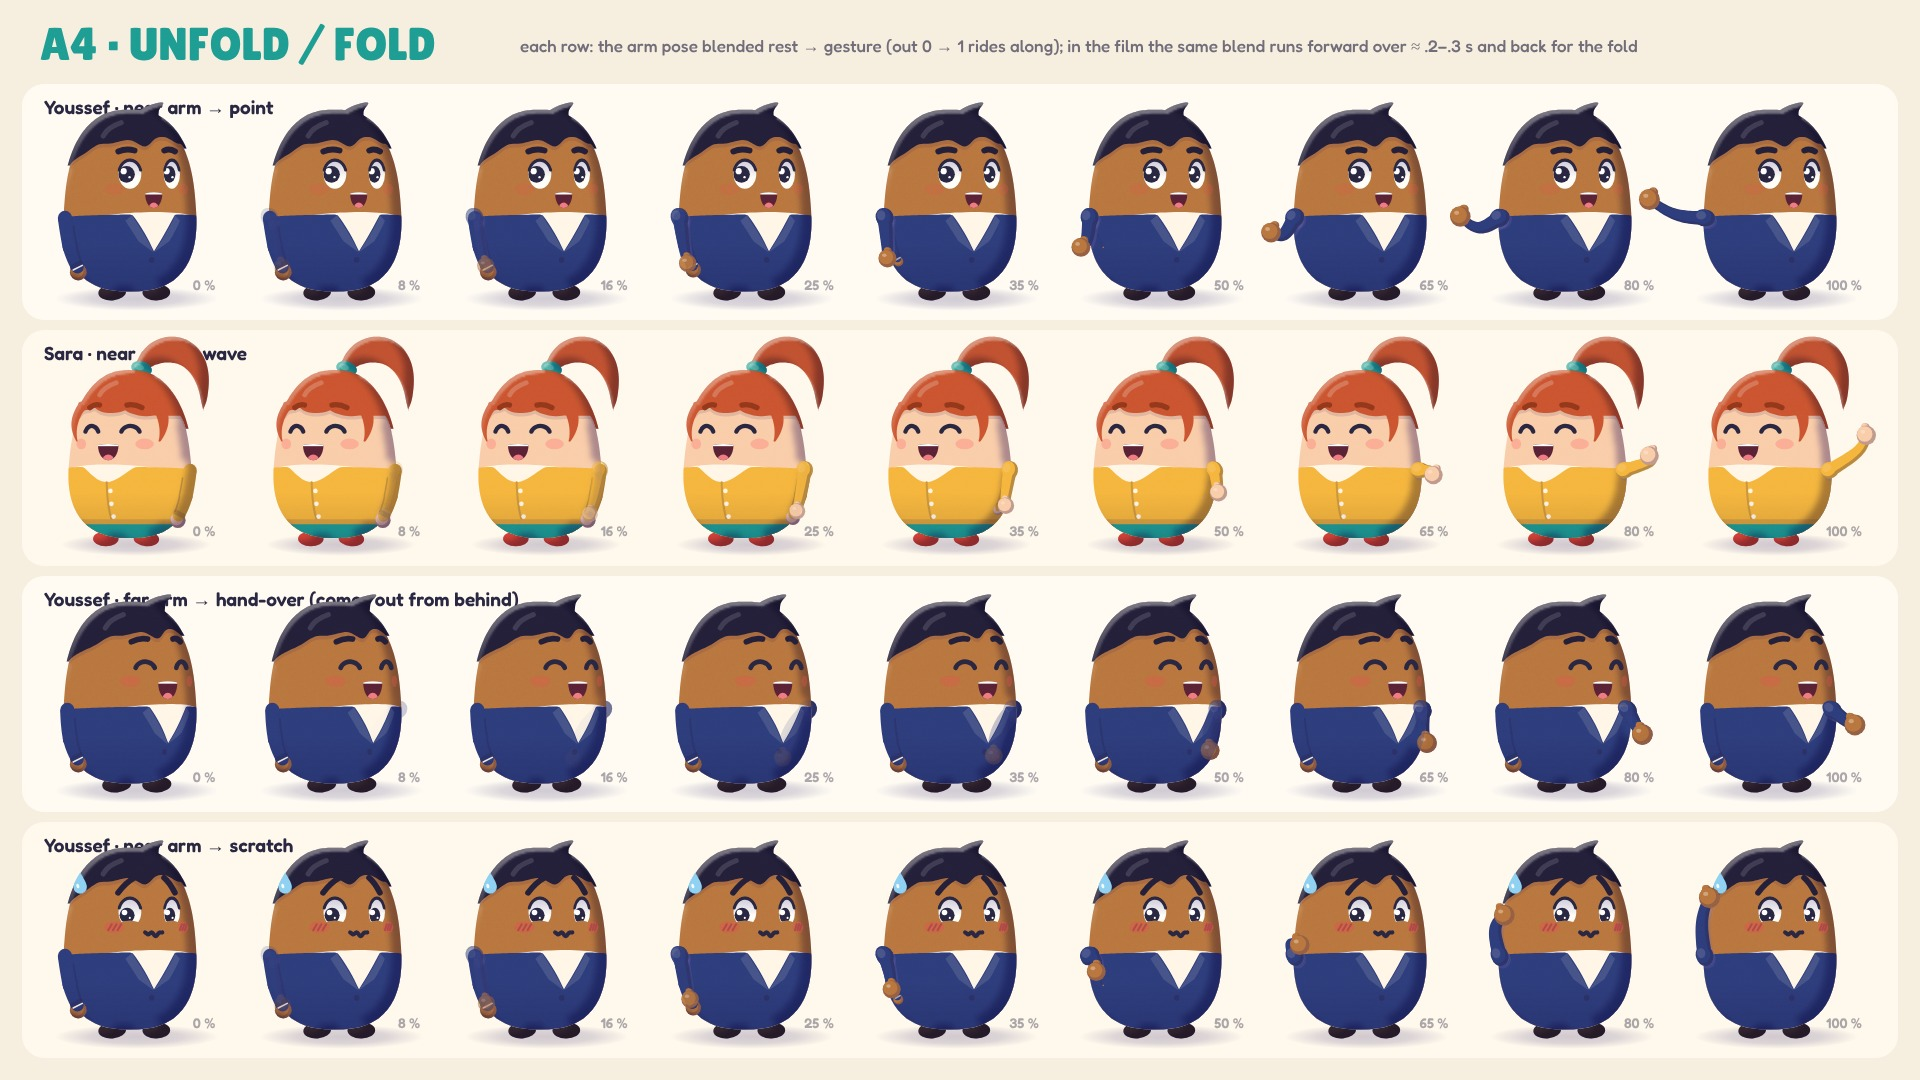
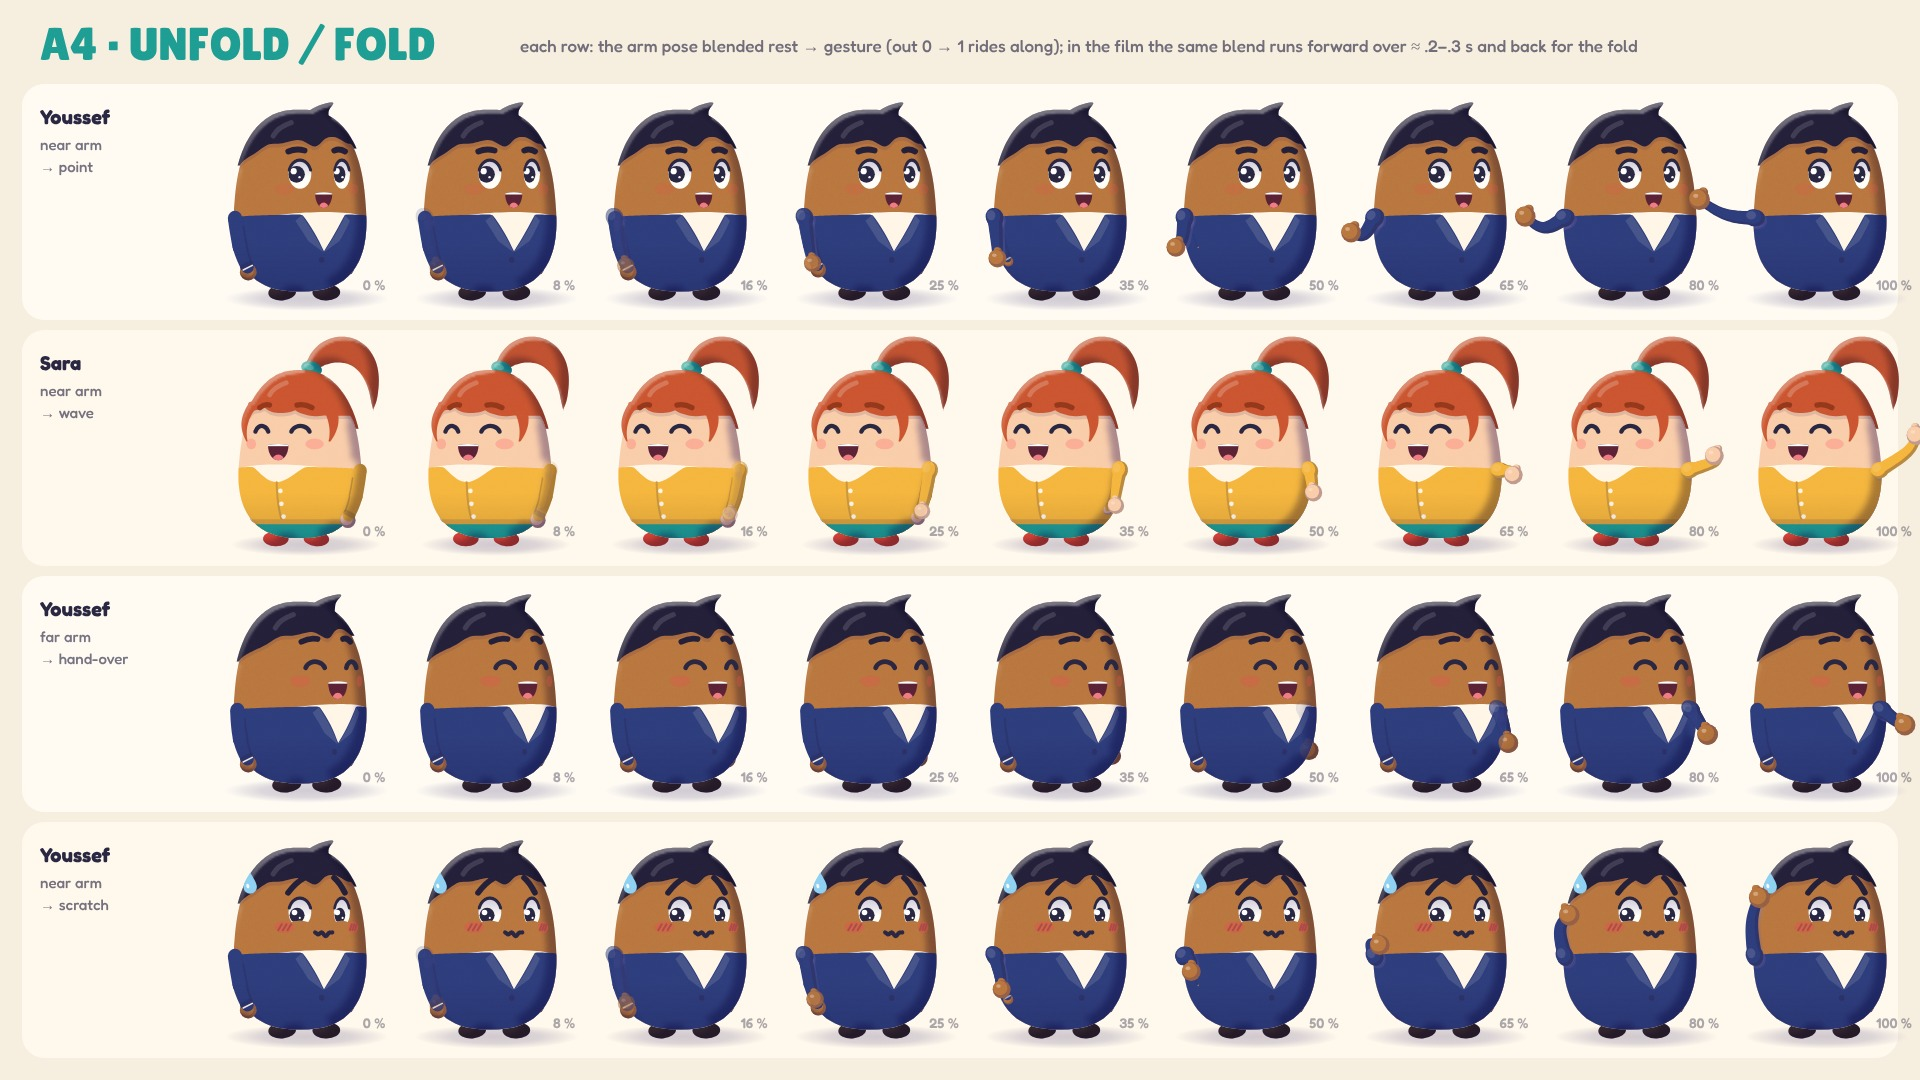
WIP: arms test v4 in progress
Claude-Session: https://claude.ai/code/session_01Ey97nqMLT4oVRE1erYCZ22

diff --git a/production/arms-test-v4/sheet.js b/production/arms-test-v4/sheet.js
@@ -30,25 +30,29 @@ const POSES = [
 
 export function sheetPoses(c) {
   c.fillStyle = '#F6EEDF'; c.fillRect(0, 0, SW, SH);
-  c.font = '400 50px "Lilita One"'; c.fillStyle = P.navy; c.textAlign = 'left'; c.fillText('ARMS · A3 vs A4', 40, 64);
-  label(c, 'A3 (episodes now): shoulder cap + one tapered sleeve curve + round hand, always full length  ·  A4: at rest the sleeve hugs the side as a bulge in the body silhouette (small hand at the hip, far arm hidden); gestures unfold the A3 arm (+10 % at the shoulder)', 470, 50, 15.5, rgba(P.ink, .7), 'left', 500);
-  label(c, 'same poses, same scale, 3/4 two-shot (Youssef turn .3, Sara −.3). Dashed line in the A4 row: where the new medium two-shot cuts the frame (≈ .2 H above the feet)', 470, 72, 15.5, rgba(P.ink, .5), 'left', 500);
-  const k = .74, cw = 306, x0 = 30, rows = [['A3', 96, P.navy], ['A4', 588, P.teal]];
-  for (const [m, ry, col] of rows) {
+  c.font = '400 46px "Lilita One"'; c.fillStyle = P.navy; c.textAlign = 'left'; c.fillText('ARMS · A3 vs A4', 36, 56);
+  label(c, 'A3 (episodes now): shoulder cap + one tapered sleeve curve + round hand, always full length.   A4: at rest the sleeve hugs the side as a bulge inside the body', 420, 34, 15.5, rgba(P.ink, .72), 'left', 500);
+  label(c, 'silhouette (one form pass, small hand at the hip, far arm hidden); gestures unfold the A3 arm out of it (+10 % at the shoulder).  Same pose objects, same scale, 3/4 view.', 420, 54, 15.5, rgba(P.ink, .72), 'left', 500);
+  label(c, 'Dashed red line in the A4 rows: where the new medium two-shot cuts the frame (≈ .2 H above the feet): below it is off screen in the dialogue shots.', 420, 74, 15.5, rgba(P.ink, .5), 'left', 500);
+  const k = .62, cw = 300, x0 = 120 + cw / 2, rh = 236;
+  const rows = [['youssef', 'A3', 1], ['youssef', 'A4', 1], ['mia', 'A3', 2], ['mia', 'A4', 2]];
+  rows.forEach(([id, m, col], ri) => {
+    const ry = 110 + ri * rh + (ri >= 2 ? 6 : 0);
     setArms(m);
-    c.fillStyle = m === 'A4' ? '#FFF8EC' : '#FFFBF3'; rr(c, 22, ry, SW - 44, 476, 26); c.fill();
-    c.font = '400 46px "Lilita One"'; c.fillStyle = col; c.textAlign = 'left'; c.fillText(m, 42, ry + 52);
+    c.fillStyle = m === 'A4' ? '#FFF6E6' : '#FFFBF3'; rr(c, 16, ry, SW - 32, rh - 8, 22); c.fill();
+    c.font = '400 40px "Lilita One"'; c.fillStyle = m === 'A4' ? P.teal : rgba(P.navy, .8); c.textAlign = 'left'; c.fillText(m, 32, ry + 50);
+    label(c, id === 'mia' ? 'Sara' : 'Youssef', 32, ry + 76, 17, rgba(P.ink, .55), 'left', 600);
     POSES.forEach(([name, yo, so], i) => {
-      const cx = x0 + 140 + i * cw, g = ry + 420;
-      if (i) { c.strokeStyle = rgba(P.ink, .07); c.lineWidth = 2; c.beginPath(); c.moveTo(cx - cw / 2 + 4, ry + 70); c.lineTo(cx - cw / 2 + 4, ry + 440); c.stroke(); }
-      if (m === 'A4') { const yc = g - .2 * 300 * .9 * k; c.setLineDash([7, 7]); c.strokeStyle = rgba(P.red, .45); c.lineWidth = 2; c.beginPath(); c.moveTo(cx - cw / 2 + 14, yc); c.lineTo(cx + cw / 2 - 10, yc); c.stroke(); c.setLineDash([]); }
-      actor(c, 'youssef', cx - 62, g, k * .9, { ...Y0, ...yo });
-      actor(c, 'mia', cx + 82, g, k * .9, { ...S0, ...so });
-      label(c, name, cx + 10, g + 42, 19, rgba(P.ink, .62));
+      const cx = x0 + i * cw, g = ry + rh - 34;
+      if (i) { c.strokeStyle = rgba(P.ink, .07); c.lineWidth = 2; c.beginPath(); c.moveTo(cx - cw / 2, ry + 14); c.lineTo(cx - cw / 2, ry + rh - 22); c.stroke(); }
+      const hh = CAST[id].H * k;
+      if (m === 'A4') { const yc = g - .2 * hh; c.setLineDash([7, 7]); c.strokeStyle = rgba(P.red, .5); c.lineWidth = 2; c.beginPath(); c.moveTo(cx - cw / 2 + 12, yc); c.lineTo(cx + cw / 2 - 12, yc); c.stroke(); c.setLineDash([]); }
+      actor(c, id, cx + (id === 'mia' ? -14 : 14), g, k, { ...(id === 'mia' ? S0 : Y0), ...(id === 'mia' ? so : yo) });
+      if (ri === 0) label(c, name, cx, ry - 6, 19, rgba(P.ink, .7));
     });
-  }
+  });
   setArms('A4');
-  label(c, 'arms test v4 · bean.js ARMS = A4 · the same pose objects feed both rows (A3 ignores the new `out` field)', SW / 2, SH - 12, 14, rgba(P.ink, .45));
+  label(c, 'arms test v4 · bean.js ARMS = A4 · Youssef turn .3 (armL near), Sara turn −.3 (armR near); point / wave / scratch use the near arm, the sip the far arm brought in front (as in the episode)', SW / 2, SH - 8, 14, rgba(P.ink, .45));
 }
 
 // the unfold, frame by frame: the arm fields blended from rest to the gesture by u (the smoothed tracks in act.js move all of them
@@ -62,15 +66,15 @@ export function sheetUnfold(c) {
   const rows = [
     ['Youssef · near arm → point', 'youssef', { turn: .3, face: face('talk', { lx: -.6 }) }, 'armL', ARM.point],
     ['Sara · near arm → wave', 'mia', { turn: -.3, wave: .25, face: face('joy') }, 'armR', ARM.wave],
-    ['Youssef · far arm → hand-over (comes out from behind)', 'youssef', { turn: .5, face: face('joy', { lx: .55 }) }, 'armR', { ...REACH, dx: .12, dy: .08 }],
+    ['Youssef · far arm → hand-over', 'youssef', { turn: .5, face: face('joy', { lx: .55 }) }, 'armR', { ...REACH, dx: .12, dy: .08 }],
     ['Youssef · near arm → scratch', 'youssef', { turn: .3, face: face('embarrassed') }, 'armL', ARM.scratch],
   ];
   rows.forEach(([name, id, base, which, tgt], ri) => {
     const ry = 84 + ri * 246;
     c.fillStyle = ri % 2 ? '#FFF8EC' : '#FFFBF3'; rr(c, 22, ry, SW - 44, 236, 22); c.fill();
-    label(c, name, 44, ry + 30, 19, P.ink, 'left', 600);
+    const nm = name.split(' · '); label(c, nm[0], 40, ry + 40, 20, P.ink, 'left', 700); nm.slice(1).join(' · ').split(' → ').forEach((ln, j) => label(c, (j ? '→ ' : '') + ln, 40, ry + 66 + j * 22, 15, rgba(P.ink, .65), 'left', 500));
     us.forEach((u, i) => {
-      const cx = 130 + i * 205, g = ry + 214;
+      const cx = 300 + i * 190, g = ry + 214;
       actor(c, id, cx, g, k, { ...base, [which]: blendArm(ARM.rest, tgt, u) });
       label(c, `${Math.round(u * 100)} %`, cx + 74, g - 8, 14, rgba(P.ink, .4));
     });

diff --git a/production/arms-test-v4/bean.js b/production/arms-test-v4/bean.js
@@ -133,7 +133,8 @@ function armGeoA3(sp, p, G) {
     const phi = s * PI / 2, ps = phi + G.th, c = Math.cos(ps), sn = Math.sin(ps), sg = Math.sign(sn) || s;
     const far = c < -.2, fk = far ? clamp(A.front) : 1;   // fk: how much of the arm is drawn in front of the body
     // the anchor on the silhouette: the far cap at the far edge, sliding to the near-arm anchor as the arm comes in front
-    const sx = G.hw(ys) * lerp(.95, .72 + .28 * Math.abs(sn), fk) * sg;
+    // A4: a folded far arm's shoulder slides in behind the body (its cap no longer peeks past the far edge)
+    const sx = G.hw(ys) * lerp(.95, .72 + .28 * Math.abs(sn), fk) * sg * (cfg.a4 && far ? lerp(.76, 1, sstA(A.out ?? 1)) : 1);
     const S = G.D(sx, ys);
     let dx = A.dx * H * s, dy = A.dy * H + .004 * H * (p.breathe || 0);   // the idle arm breathes with the body
     if (far) { dx += s * .03 * H * (1 - fk); dy += .06 * H * (1 - fk); }   // a hanging far arm sits a touch forward so its hand peeks past the body edge
@@ -168,7 +169,7 @@ function tuckA4(R, A, G, sn, sg, c, H) {
   const u = clamp(A.out ?? 1), e = sstA(u), ys = -R.cfg.sy * H, yb = -.165 * H;
   const vis = sstA((c + .2) / .4), far = R.far;
   // the far arm tucks behind the body (inside the silhouette); the near one along the side
-  const edge = y => far ? G.hw(y) * .55 * sg : (G.hw(y) - .016 * H) * sg;
+  const edge = y => far ? (G.hw(y) - .05 * H) * sg : (G.hw(y) - .016 * H) * sg;   // far: just behind the far edge
   const P = v => { const y = lerp(ys + .03 * H, yb, v); return G.D(edge(y), y); };
   const S = R.S, P1 = P(.4), P2 = P(.75), Tt = P(1);
   // control points on the curve, nudged so the cubic passes near P(.4) / P(.75)
@@ -179,7 +180,9 @@ function tuckA4(R, A, G, sn, sg, c, H) {
   R.Hd = [lerp(Tt[0], R.Hd[0], e), lerp(Tt[1], R.Hd[1], e)];
   R.Ec = [lerp((R.c1[0] + R.c2[0]) / 2, R.Ec[0], e), lerp((R.c1[1] + R.c2[1]) / 2, R.Ec[1], e)];
   const fl = Math.hypot(R.Hd[0] - R.c2[0], R.Hd[1] - R.c2[1]) || 1; R.fdir = [(R.Hd[0] - R.c2[0]) / fl, (R.Hd[1] - R.c2[1]) / fl];
-  R.u = u; R.aU = sstA(u / .3); R.hk = lerp(.8, 1, e);
+  R.u = u; R.aU = far ? 1 : sstA(u / .3); R.hk = lerp(.8, 1, e);   // the far arm is hidden by geometry (behind the body), the near one fades in on the bulge
+  // a far arm coming in front (hand-over) is drawn in front only once it is mostly out (else its hand would ghost over the belly)
+  if (far) R.frontK = R.frontK * sstA((e - .3) / .45);
   R.bA = far ? 0 : vis * (1 - sstA((u - .1) / .55));
 }
 function armGeo3(sp, p, G) {
